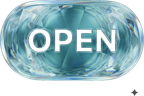
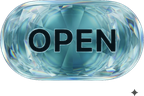
v5.37 — ink the OPEN badge's cut-out letters; de-flake the splash guard
The badge art was keyed out of a black backdrop and the key took the lettering
with it, so OPEN was a hole that wore whatever thumbnail sat behind it. Fill the
interior transparency (found by flooding inward from the border, so the pill's
soft outer edge survives) with near-black ink, recompositing glass OVER ink so
letter antialiasing holds. Black over white on measurement: 90% of the
surrounding glass is below 0.40 luminance.

Guard it with a test that reads the shipped PNG, and fix the splash/preintro
test, which asserted a time-dependent question with one snapshot and had been
red in headless all along.

Changed region(s): [[0.1944, 0.2812, 0.6389, 0.5625], [0.6667, 0.2812, 0.8056, 0.5625]]

diff --git a/tests/tests.js b/tests/tests.js
@@ -991,7 +991,7 @@
     if (o.effects[0].params.source) throw new Error('a source pointing outside the pack survived as ' + o.effects[0].params.source);
   });
 
-  test('the home screen is never left invisible waiting for a splash that will not dismiss', { item: 'preintro-stuck' }, function () {
+  test('the home screen is never left invisible waiting for a splash that will not dismiss', { item: 'preintro-stuck' }, async function () {
     // v5.16, and a live report: "when i exit a project nothing loads, i can still press on the screen
     // and load projects but they just arent visibly there… it happens if i refresh while in a
     // project." The splash plays once per SESSION, so on a refresh the boot script returns early and
@@ -1003,7 +1003,24 @@
     // for the first time on the way OUT of the project, long after the splash slot has passed.
     const root = document.getElementById('home-screen');
     if (!root) throw new Error('#home-screen missing');
-    if (root.classList.contains('hm-preintro')) throw new Error('#home-screen is stuck in .hm-preintro right now — its content is invisible');
+    // "Is it stuck?" is a question about TIME. A single snapshot cannot tell a stuck home screen from
+    // one that is legitimately mid-entrance, and on a cold session the splash genuinely holds
+    // .hm-preintro for ~2.4s — which made this read red on every fresh load and green only when the
+    // splash had already played. The invariant that actually encodes the bug is narrower: preintro
+    // may only be up WHILE a splash is up. Sample it instead of guessing a sleep.
+    // The handover is not instantaneous: the splash stops counting as "up" the moment it begins
+    // dissolving, and preintro swaps to intro on the next frame. So orphaned-ness is only a fault
+    // once it PERSISTS — 0.8s here against the 6s of blank screen that was reported.
+    let orphaned = 0;
+    for (let i = 0; i < 90; i++) {
+      if (!root.classList.contains('hm-preintro')) break;
+      orphaned = (FM.home._splashIsUp && FM.home._splashIsUp()) ? 0 : orphaned + 1;
+      if (orphaned > 8) {
+        throw new Error('#home-screen has sat in .hm-preintro for ' + (orphaned * 100) + 'ms with no splash up — its content is invisible and nothing is left to reveal it');
+      }
+      if (i === 89) throw new Error('#home-screen was still in .hm-preintro after 9s — the splash never dismissed');
+      await new Promise(r => setTimeout(r, 100));
+    }
 
     // The rule itself must still bite when it is legitimately applied, or this test proves nothing.
     root.classList.add('hm-preintro');
@@ -1554,6 +1571,66 @@
     if (withCam > plain + 1) {
       throw new Error('on a 2x zoomed preview a hard edge is ' + withCam + 'px of ramp with a camera against ' + plain + 'px without — the camera plate is being upscaled instead of rendered at the preview\u2019s resolution');
     }
+  });
+
+  test('home: the OPEN badge says OPEN over any thumbnail', { item: 'open-badge-ink' }, async function () {
+    // The badge art was keyed out of a black backdrop, which knocked the letters out along with the
+    // background — so the word was a hole wearing whatever project thumbnail sat behind it, and it
+    // vanished on a busy one. Guard the ASSET, not the CSS: a re-export with the same mistake is
+    // exactly how this comes back. Interior transparency is found by flooding inward from the border,
+    // so the pill's own soft outer edge is not mistaken for a hole.
+    var url = new URL('../open-badge.png', document.baseURI).href;
+    var img = await new Promise(function (res, rej) {
+      var i = new Image();
+      i.onload = function () { res(i); };
+      i.onerror = function () { rej(new Error('open-badge.png did not load from ' + url)); };
+      i.src = url + '?t=' + Math.random();
+    });
+    var W = img.naturalWidth, H = img.naturalHeight;
+    if (!W || !H) throw new Error('open-badge.png decoded to 0x0');
+    var c = offscreen(W, H), cx = c.getContext('2d');
+    cx.drawImage(img, 0, 0);
+    var a = cx.getImageData(0, 0, W, H).data;
+    var alpha = function (x, y) { return a[(y * W + x) * 4 + 3]; };
+
+    var outside = new Uint8Array(W * H), q = [];
+    var push = function (x, y) {
+      var i = y * W + x;
+      if (!outside[i] && alpha(x, y) < 250) { outside[i] = 1; q.push(i); }
+    };
+    for (var x = 0; x < W; x++) { push(x, 0); push(x, H - 1); }
+    for (var y = 0; y < H; y++) { push(0, y); push(W - 1, y); }
+    for (var h = 0; h < q.length; h++) {
+      var i = q[h], qx = i % W, qy = (i / W) | 0;
+      if (qx > 0) push(qx - 1, qy);
+      if (qx < W - 1) push(qx + 1, qy);
+      if (qy > 0) push(qx, qy - 1);
+      if (qy < H - 1) push(qx, qy + 1);
+    }
+    var holes = 0;
+    for (var j = 0; j < W * H; j++) if (!outside[j] && a[j * 4 + 3] < 250) holes++;
+    if (holes) {
+      throw new Error(holes + ' of ' + (W * H) + ' pixels inside the OPEN badge are see-through — the ' +
+        'lettering is a cut-out again, so the word takes the colour of the thumbnail behind it');
+    }
+
+    // …and the letters must still be legible against the glass they sit on, not merely opaque.
+    var lum = function (o) {
+      var f = function (v) { v /= 255; return v <= 0.04045 ? v / 12.92 : Math.pow((v + 0.055) / 1.055, 2.4); };
+      return 0.2126 * f(a[o]) + 0.7152 * f(a[o + 1]) + 0.0722 * f(a[o + 2]);
+    };
+    var dark = [], light = [];
+    for (var yy = (H * 0.28) | 0; yy < (H * 0.58) | 0; yy++) {
+      for (var xx = (W * 0.16) | 0; xx < (W * 0.84) | 0; xx++) {
+        var o = (yy * W + xx) * 4;
+        if (a[o + 3] < 250) continue;
+        (lum(o) < 0.06 ? dark : light).push(lum(o));
+      }
+    }
+    if (dark.length < 200) throw new Error('found only ' + dark.length + ' ink pixels in the badge’s text band — the lettering is missing or no longer dark');
+    var med = light.sort(function (p, r) { return p - r; })[(light.length / 2) | 0];
+    var ratio = (med + 0.05) / (0.05);
+    if (ratio < 4.5) throw new Error('ink against the median glass around it is only ' + ratio.toFixed(2) + ':1 — under the 4.5:1 readable floor');
   });
 
   async function run() {

diff --git a/styles.css b/styles.css
@@ -1979,16 +1979,20 @@ body.hm-selecting .hm-card { touch-action: none; }
 .hm-thumb img { width: 100%; height: 100%; object-fit: cover; }
 .hm-thumb-empty { font-size: 26px; opacity: .25; }
 .hm-dur { position: absolute; bottom: 5px; left: 5px; font-size: 9.5px; font-weight: 700; font-variant-numeric: tabular-nums; color: #fff; background: rgba(8, 11, 17, .78); border-radius: 6px; padding: 2px 6px; }
-/* OPEN badge (v4.90) — Ezra's glass pill render. Same construction as the + FAB: the word is cut in
-   the same black as the backdrop, so one luminance key punched out the background AND the letters,
-   and the project thumbnail shows through them. The text stays in the DOM for screen readers and is
-   hidden with a 0 font-size rather than display:none, so the badge keeps its accessible name.
-   Sized off the artwork's own 1.495 aspect so the pill can't stretch. */
+/* OPEN badge (v4.90) — Ezra's glass pill render. It was built like the + FAB: one luminance key
+   punched the black backdrop out of the artwork, which took the letters with it, so the word was a
+   hole and wore whatever project thumbnail sat behind it. On a busy or pale thumbnail it stopped
+   reading as a word at all, so as of v5.37 the letters are inked near-black IN THE ASSET — the pill
+   is now opaque through the word and says the same thing over any picture. The text stays in the DOM
+   for screen readers and is hidden with a 0 font-size rather than display:none, so the badge keeps
+   its accessible name. Sized off the artwork's own 1.495 aspect so the pill can't stretch. */
 .hm-open-badge {
   position: absolute; top: 5px; left: 5px;
   width: 33px; height: 22px; padding: 0; border-radius: 0;
-  font-size: 0; color: transparent; background: url('open-badge.png?v=1') center / contain no-repeat;
-  /* the edge light lands on the pill's outline AND inside the cut letters — at badge scale (v4.92) */
+  font-size: 0; color: transparent; background: url('open-badge.png?v=2') center / contain no-repeat;
+  /* Edge light at badge scale (v4.92). drop-shadow follows alpha, so before the letters were inked
+     this had to stay sub-pixel or it bloomed into the counters of the O and P. Now the only alpha
+     edge left is the pill outline and the sparkle, which is all this should ever have rimmed. */
   filter: var(--glass-edge-sm) drop-shadow(0 1px 3px rgba(0,0,0,.55));
 }
 .hm-body { flex: 1; min-width: 0; }

diff --git a/tests/_badge.html b/tests/_badge.html
@@ -1,0 +1,34 @@
+<!doctype html>
+<html lang="en">
+<head>
+<meta charset="utf-8">
+<title>OPEN badge</title>
+<link rel="stylesheet" href="../styles.css?v=277">
+<style>
+  /* Dev-only. The badge only appears on the CURRENTLY OPEN project's card, which is awkward to stage
+     in the real home screen just to look at 33x22 pixels. This puts the shipped .hm-open-badge — its
+     real size, its real filter chain — over the range of thumbnails it has to survive, because the
+     bug being fixed was entirely about what shows THROUGH the letters. */
+  html, body { margin: 0; background: #0b0e14; font: 11px ui-monospace, monospace; color: #7b8798; }
+  #row { display: flex; }
+  .cell { width: 116px; }
+  .thumb { position: relative; height: 76px; }
+  .cap { padding: 4px 6px; }
+  .t1 { background: #fff; }
+  .t2 { background: repeating-linear-gradient(0deg, #f7e6c4 0 2px, #e9cda0 2px 4px); }
+  .t3 { background: repeating-linear-gradient(58deg, #78bed2 0 7px, #468cae 7px 14px); }
+  .t4 { background: #12161c; }
+  .t5 { background: linear-gradient(120deg, #fff 0 50%, #0a0d12 50% 100%); }
+</style>
+</head>
+<body>
+<div id="row"></div>
+<script>
+var BACKS = [['t1', 'white'], ['t2', 'pale photo'], ['t3', 'busy midtone'], ['t4', 'dark'], ['t5', 'split']];
+document.getElementById('row').innerHTML = BACKS.map(function (b) {
+  return '<div class="cell"><div class="thumb ' + b[0] + '"><span class="hm-open-badge">OPEN</span></div>' +
+         '<div class="cap">' + b[1] + '</div></div>';
+}).join('');
+</script>
+</body>
+</html>

diff --git a/tests/_preintro.html b/tests/_preintro.html
@@ -1,0 +1,34 @@
+<!doctype html>
+<html lang="en">
+<head>
+<meta charset="utf-8">
+<title>preintro timeline</title>
+<style>html,body{margin:0;background:#0b0e14;color:#cfe;font:12px ui-monospace,monospace}
+#out{padding:8px;white-space:pre}
+iframe{position:fixed;left:-9999px;top:0;width:900px;height:760px;border:0}</style>
+</head>
+<body>
+<pre id="out">sampling…</pre>
+<iframe id="f" src="../index.html"></iframe>
+<script>
+/* Dev-only. "Is the home screen stuck invisible?" is a question about TIME, and a single assertion
+   at one arbitrary moment cannot tell a stuck screen from a screen that simply has not finished its
+   entrance yet. This samples the actual state every 100ms from boot so the two can be told apart. */
+var f = document.getElementById('f'), out = document.getElementById('out'), rows = [];
+f.addEventListener('load', function () {
+  var d = f.contentDocument, w = f.contentWindow, t0 = Date.now();
+  var iv = setInterval(function () {
+    var hs = d.getElementById('home-screen'), sp = d.getElementById('splash');
+    rows.push([
+      String(Date.now() - t0).padStart(5) + 'ms',
+      'home=' + (hs ? (hs.className || '—') : 'missing'),
+      'splash=' + (sp ? (sp.className || '(visible)') : 'missing'),
+      'up=' + (w.FM && w.FM.home && w.FM.home._splashIsUp ? w.FM.home._splashIsUp() : '?')
+    ].join('  '));
+    out.textContent = rows.join('\n');
+    if (Date.now() - t0 > 9000) { clearInterval(iv); out.textContent = rows.join('\n') + '\nDONE'; }
+  }, 100);
+});
+</script>
+</body>
+</html>

diff --git a/index.html b/index.html
@@ -8,7 +8,7 @@
      iOS home-screen launch the WebView can still show one white frame before it resolves; declaring
      the ground colour inline means the earliest possible paint is already black. -->
 <style>html,body{background:#000}</style>
-<link rel="stylesheet" href="styles.css?v=276">
+<link rel="stylesheet" href="styles.css?v=277">
 <link rel="stylesheet" href="theme-glass.css?v=14">   <!-- additive; only applies under html[data-theme="glass"] (Settings → Appearance) -->
 <link rel="manifest" href="manifest.json">
 <meta name="theme-color" content="#12151b">
@@ -113,7 +113,7 @@
   </script>
   <div id="app">
     <header id="topbar">
-      <div class="brand">▶ FreeMotion <span class="ver" title="Tap to force-update to the very latest build">v5.36</span></div>
+      <div class="brand">▶ FreeMotion <span class="ver" title="Tap to force-update to the very latest build">v5.37</span></div>
       <div class="top-actions">
         <!-- Undo/Redo moved to the centred transport row (AM keeps them by the play button, not the top bar). -->
         <!-- Generate + Import (and Text/Captions/etc.) live in the inspector's ADD menu (shown when nothing

diff --git a/POLISH-LOG.md b/POLISH-LOG.md
@@ -306,3 +306,5 @@ One line per shipped iteration — newest at the bottom. (Started when Ezra went
 - v5.34 — camera focus blur is symmetric about the focus plane again. From the camera audit, two of its findings and one cause: the blur radius was divided by the layer's perspective scale. That reads like pre-compensating for the scale applied a moment later, but ctx.filter is applied in DEVICE space and is not touched by the current transform — the same fact that makes plateScale necessary everywhere else in this file — so the division did not cancel anything. It made the blur depend on depth a SECOND time, on top of camDefocus which already measures distance from the focus plane and is perfectly symmetric. The result: anything BEHIND the focus plane was smeared away (the audit measured 13.4px) while anything in FRONT of it barely blurred at all (1.2px), so a rack focus only worked in one direction. Measured here with a rectangle at z = ±260 either side of the plane: 29px vs 64px before, 58px vs 59px after — a ratio of 1.02 — and a layer sitting ON the plane still renders with a ramp of exactly 0, i.e. properly sharp. Verified by putting the old division back and watching the ratio return to 2.21. One thing this cost me first: my initial probe built the camera's focus object by hand as {enabled, d, r, s} and measured NO blur at all, which looked like the fix had broken it. Those are the INTERNAL names cameraLens emits; the layer's own fields are {enabled, distance, dof, blur}, and a focus object missing them silently means "no blur" — which is itself one of the audit's open findings. The test asserts the blur actually engages before it compares the two sides, so that failure mode reports itself instead of passing as a suspiciously perfect 1.0.
 - v5.35 — a camera no longer stops blend modes and adjustment layers seeing the background. Two HIGH findings from the camera audit with one cause, and Ezra made the design call that decided the shape of the fix: "the background is usually one solid colour so would you even notice the panning? Keep the background unaffected." So the background stays FIXED on screen, which is why it was being painted on the real canvas rather than into the camera's plate in the first place. The trouble was that painting it only there left the plate transparent where the background should be, so a difference blend had nothing to blend against and an adjustment layer had nothing to grade — both silently stopped working the moment a camera existed, and neither failure said anything. It now goes into the plate as well, INVERSE-MAPPED: the quad filled is the screen rectangle pushed back through the camera's transform (p = cam + Rᵀ·((screen − C)/zoom)), so once the composite applies that transform the fill lands exactly over the frame and does not move when the camera pans. Same colour as the real-canvas fill underneath, so there is nothing new to see — the point is entirely what the layers above can now blend and grade against. Measured all three properties, because fixing any one alone is easy and wrong: the background is byte-identical at rest and after a 70px pan; a difference blend renders 207,159,63 both with and without a camera, where before it stayed pure white with one; and an adjustment layer inverts the background 48,96,192 → 207,159,63 instead of leaving it alone. Mutation-checked. One near-miss worth recording: my first blend probe set `layer.blend`, which is not the field — it is `layer.blendMode` — so the blend never applied and the result looked like the fix had failed. The test now asserts the blend applies WITHOUT a camera before comparing the two, so a dud probe reports itself.
 - v5.36 — a camera scene is rendered on the preview's own pixel grid. The last of the camera audit's structural findings, and the same class as the adjustment-layer plate fixed in v5.10: the camera composites through an offscreen that was allocated at exactly P.width x P.height and never stamped with __fmRS/__fmOX/__fmOY. Two consequences, both invisible as bugs and both real. First, plateScale() read an undefined scale on that plate and returned 1, so INSIDE a camera scene the adaptive playback quality tier did nothing at all — the whole point of the tier is to render fewer pixels while the playhead moves, and with a camera present it was still rendering every one of them. Second, a zoomed preview could not supersample: the plate was project-sized and had to be UPSCALED to the canvas, so the picture went soft the moment you zoomed in and stopped matching the export. Measured at a 2x zoomed preview: a hard edge came out as a 2px ramp with a camera against 0px without; now both are 0. The plate is sized to the target's grid and carries its stamps, and the blit hands back at project size so the surrounding baseT and camera transform still map it exactly as before. Capped at 2x, because beyond that a supersampled plate on a 1080x1920 project costs tens of megapixels for detail nobody can see. Verified there is no regression at the reduced tier either — a 14px blur measures the same size in project terms at 1.0 and at 0.36, with and without a camera. Mutation-checked by pinning the plate scale back to 1, which returns the 2px soft edge.
+- v5.37 — the OPEN badge on a project card says OPEN over any thumbnail. Ezra: "since the text is just a cutout, sometimes it's hard to read it saying open on certain backgrounds, so make it a colour that stands out." The artwork was built the same way as the + FAB — one luminance key punched the black backdrop out of the render — and that key took the LETTERING with it, so the word was a hole and simply wore whatever project thumbnail sat behind it. On a pale or busy card it stopped reading as a word at all, and even when it was legible it changed colour from card to card. Fixed in the asset rather than in CSS, because a colour behind a cut-out needs the pill's exact silhouette and the pill is not a plain pill (there is a sparkle off the corner). The letters are found by flood-filling the transparent region INWARD from the border: whatever transparency that flood cannot reach is interior, i.e. the lettering, which leaves the pill's own soft outer edge untouched. Each of those 2004 pixels is recomposited as glass OVER ink, so a letter edge at 40% alpha lands 40% of the glass over the ink instead of stair-stepping. Ink is #071319 — near-black, biased to the glass's own teal rather than a flat #000. Black rather than white on measurement, not taste: 90% of the glass immediately around the letters sits below 0.40 luminance and only 1% is specular-bright, so ink beats white by 5.9:1 against 3.5:1 at the median. Checked at the real 33x22 through the real filter chain over white, a pale photo, a busy midtone, black and a hard split — identical word every time. Guarded by a test that reads the shipped PNG and fails if any interior pixel is see-through again, which is exactly how this comes back; mutation-checked against the old art (1173 see-through pixels). Also lifted the note on --glass-edge-sm: it had to stay sub-pixel only because drop-shadow follows alpha and bloomed into the counters of the O and P, and with the letters inked the pill outline is the only alpha edge left.
+- v5.37 — fixed a regression test that was crying wolf. The splash/preintro guard asserted "#home-screen is not in .hm-preintro RIGHT NOW", which is a question about time answered with a single snapshot: on a cold session the splash legitimately holds preintro for ~2.4s, so the test read red on every fresh load and green only once the splash had already played that session — it had been quietly red in headless the whole time. Sampled the real thing every 100ms from boot to tell the two apart: preintro at 100ms with the splash up, splash-out at 2300ms, intro at 2400ms, clean by 4400ms — the app was never stuck. The assertion now encodes the invariant the bug actually violated (preintro may only be up WHILE a splash is up) with an 0.8s grace for the handover frame, against the 6s of blank screen that was reported. Mutation-checked by putting the pre-v5.16 element-existence bug back into splashIsUp(), which turns it red immediately.
